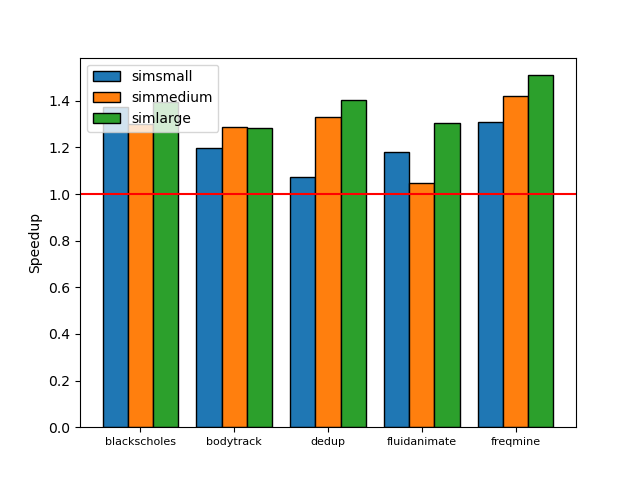
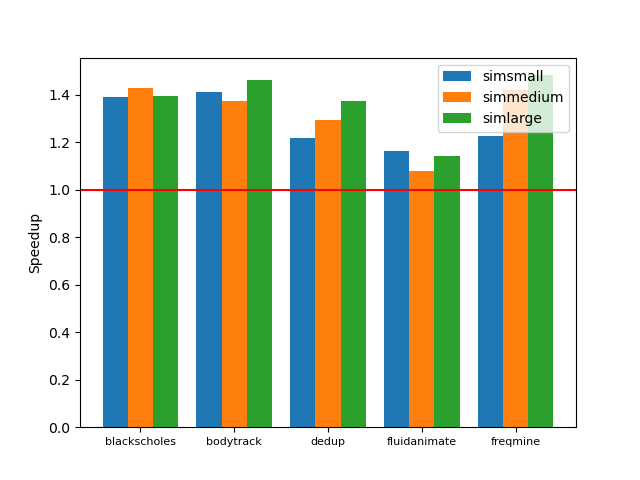
update plots of task D

diff --git a/task3/multicore/test_basic_cores.py b/task3/multicore/test_basic_cores.py
@@ -77,7 +77,8 @@ x = x - (total_width - width) / 2
 for i in range(len(cores_range)):
     cores = cores_range[i]
     data = df[cores]
-    plt.bar(x + i*width, data,  width=width, label=f"{cores} Cores", ec='black')
+#    plt.bar(x + i*width, data,  width=width, label=f"{cores} Cores", ec='black')
+    plt.bar(x + i*width, data,  width=width, label=f"{cores} Cores")
 
 plt.xticks(np.arange(app_num), labels=workload_map.keys(), fontsize=8)
 plt.legend()

diff --git a/task3/multicore/test_exp_cores.py b/task3/multicore/test_exp_cores.py
@@ -66,7 +66,7 @@ x = x - (total_width - width) / 2
 for i in range(len(threads_range)):
     threads = threads_range[i]
     data = df[threads]
-    plt.bar(x + i*width, data,  width=width, label=f"{threads} Threads", ec='black')
+    plt.bar(x + i*width, data,  width=width, label=f"{threads} Threads")
 
 plt.xticks(np.arange(app_num), labels=workload_map.keys(), fontsize=8)
 plt.legend()

diff --git a/task3/multicore/test_exp_size.py b/task3/multicore/test_exp_size.py
@@ -69,7 +69,7 @@ x = x - (total_width - width) / 2
 for i in range(len(size_range)):
     size = size_range[i]
     data = df[size]
-    plt.bar(x + i*width, data,  width=width, label=f"{size}", ec='black')
+    plt.bar(x + i*width, data,  width=width, label=f"{size}")
 
 plt.xticks(np.arange(app_num), labels=workload_map.keys(), fontsize=8)
 plt.legend()

diff --git a/task3/multicore/test_basic_size.py b/task3/multicore/test_basic_size.py
@@ -97,7 +97,7 @@ x = x - (total_width - width) / 2
 for i in range(len(params)):
     size = [*params][i]
     data = df[size]
-    plt.bar(x + i*width, data,  width=width, label=f"{size}", ec='black')
+    plt.bar(x + i*width, data,  width=width, label=f"{size}")
 
 plt.xticks(np.arange(app_num), labels=workload_map.keys(), fontsize=8)
 plt.legend()
